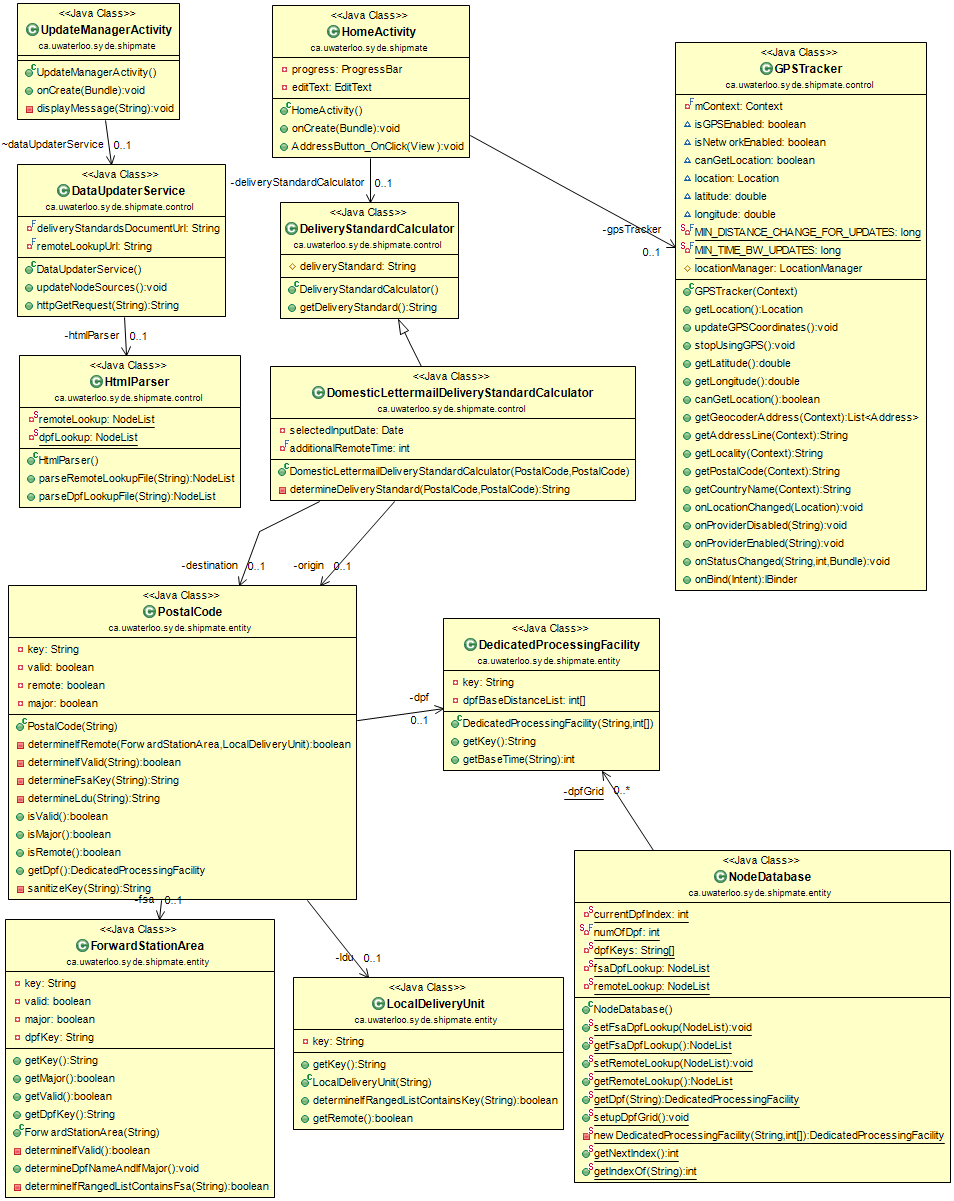
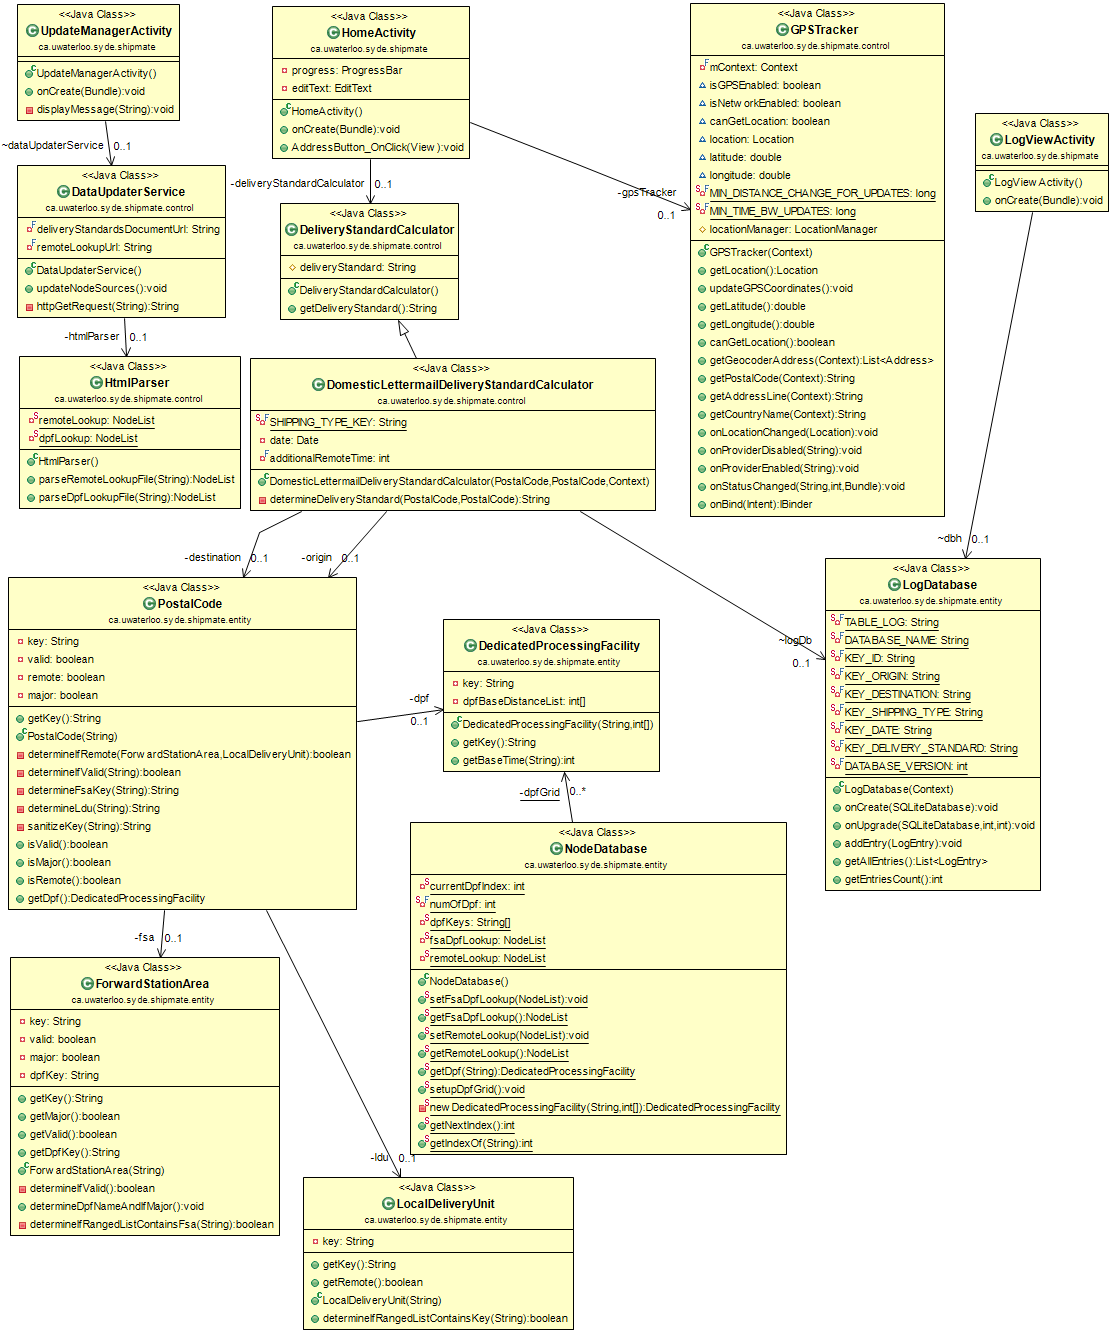
class diagram updated
supporting changes to LogViewActivity made

diff --git a/src/ca/uwaterloo/syde/shipmate/LogViewActivity.java b/src/ca/uwaterloo/syde/shipmate/LogViewActivity.java
@@ -13,13 +13,15 @@ import android.widget.TableRow;
 import android.widget.TextView;
 
 public class LogViewActivity extends Activity {
+	
+	LogDatabase dbh;
 	@Override
     public void onCreate(Bundle savedInstanceState) {
         super.onCreate(savedInstanceState);
         setContentView(R.layout.log_layout);
          
         // Read database.
-        LogDatabase dbh = new LogDatabase(this);
+        dbh = new LogDatabase(this);
         SQLiteDatabase db = null;
         try {
         	db = dbh.getReadableDatabase();
